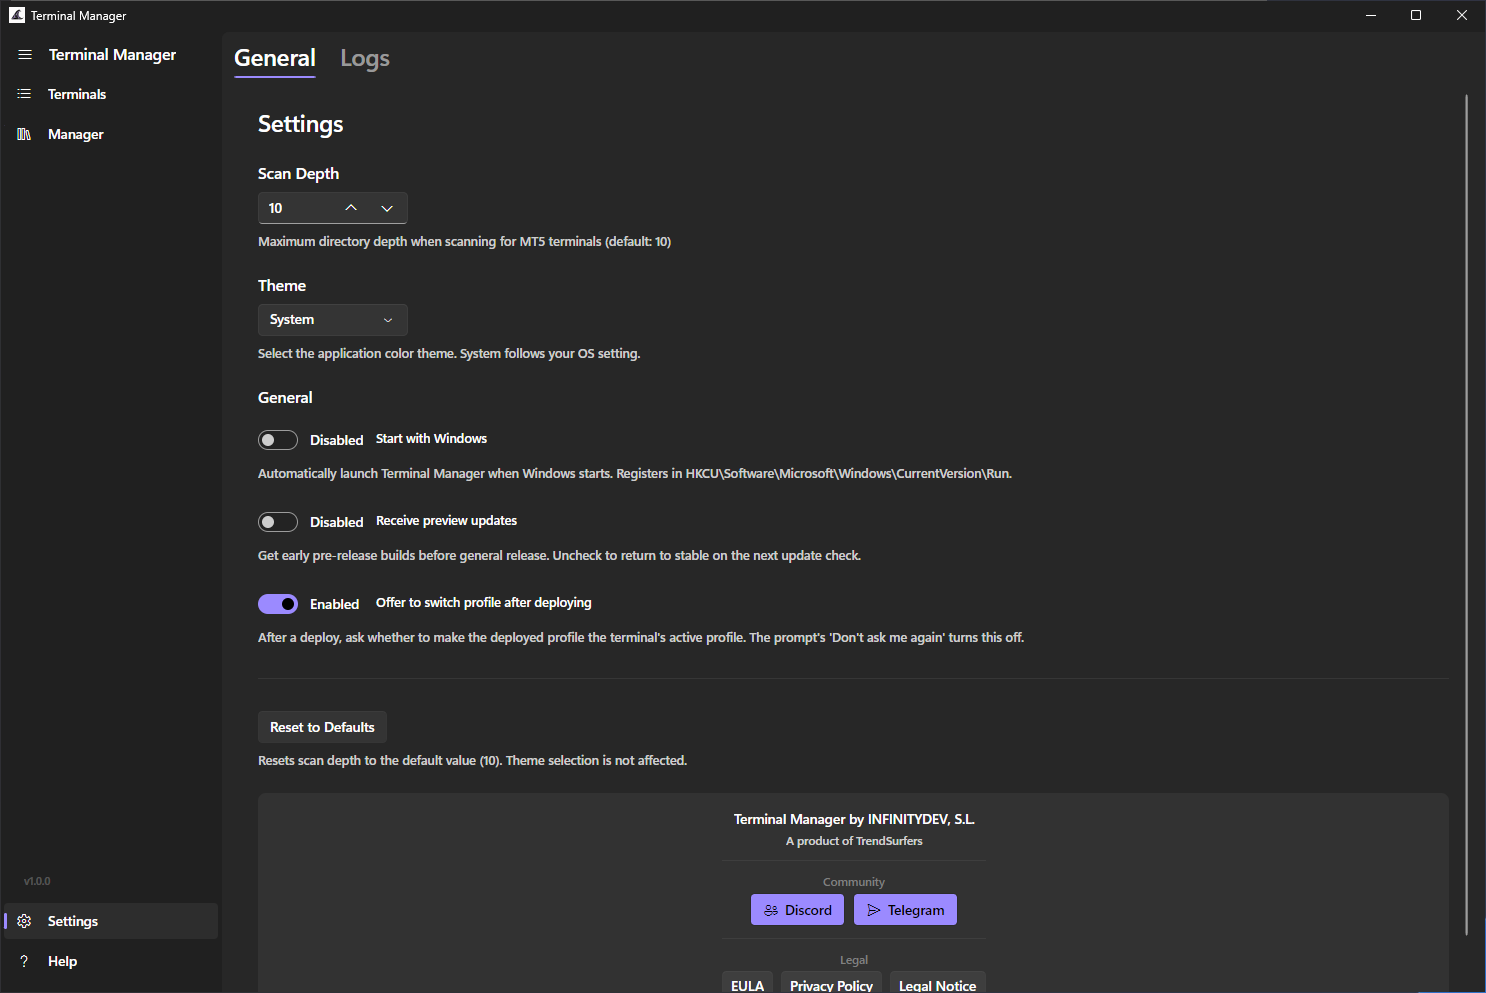
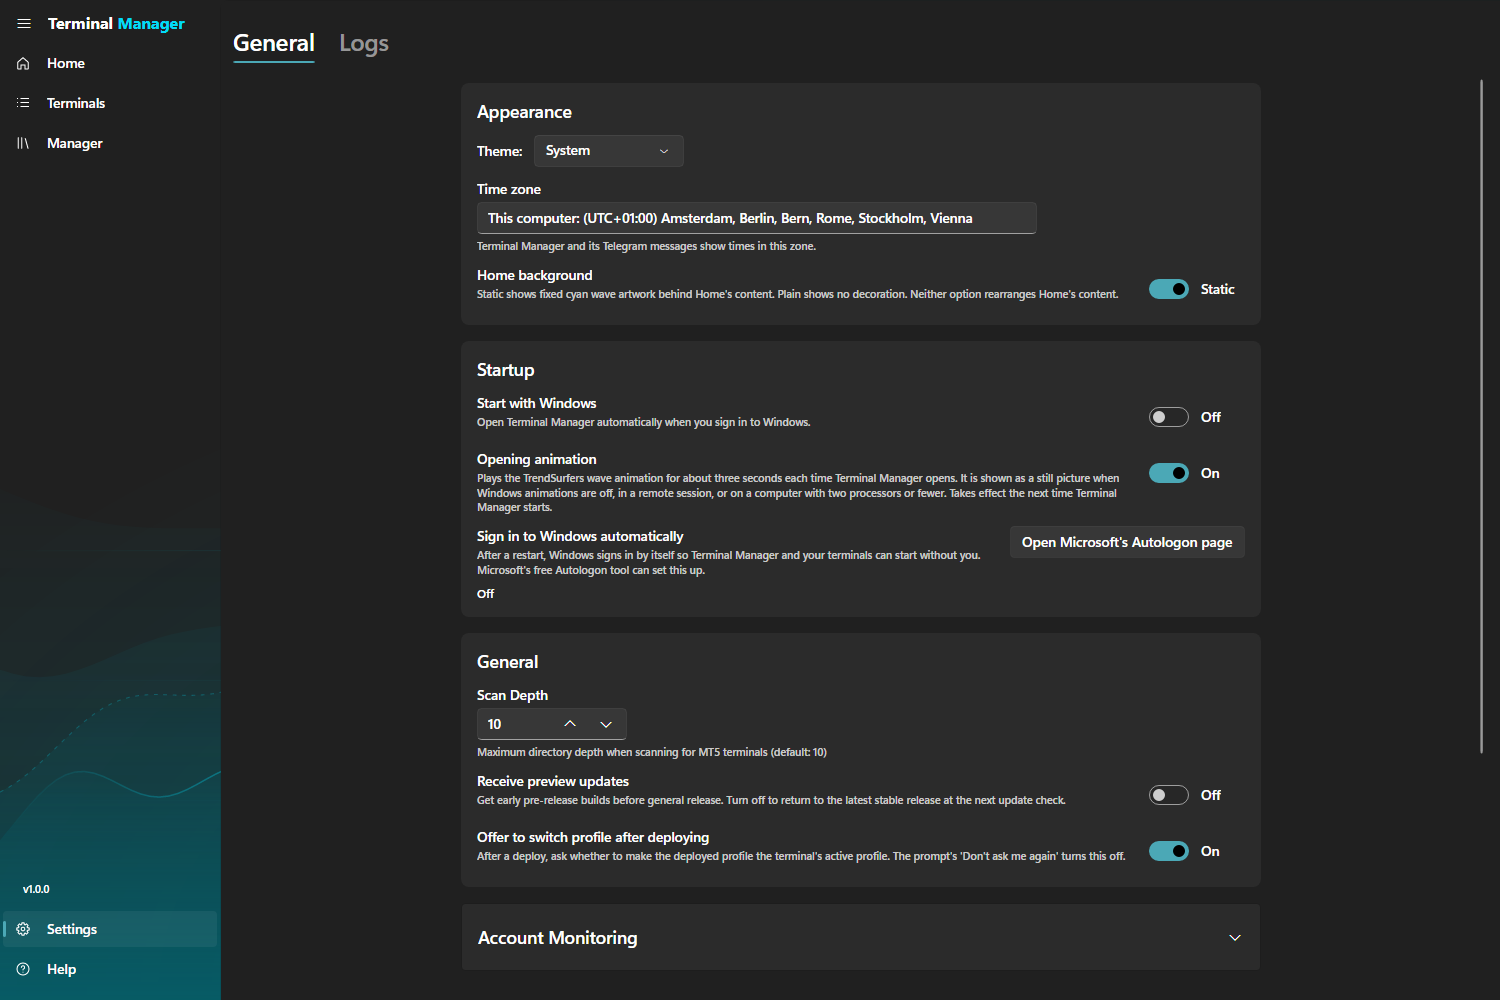
docs: refresh README and screenshots for Terminal Manager 1.0.0

diff --git a/README.md b/README.md
@@ -1,129 +1,120 @@
-# TrendSurfers Terminal Manager
+# **Terminal Manager**
 
-> A free Windows desktop app for managing your MetaTrader 5 terminals — find every terminal, turn your Expert Advisor `.set` files into ready-to-load chart profiles, and keep a full history of every deployment.
+Keep all your MetaTrader 5 terminals in one place. See which ones are running and where trading is enabled, and turn your Expert Advisor `.set` files into chart profiles that are ready to load.
 
-**Website:** [trendsurfers.io](https://trendsurfers.io/)
+[**Download the latest version**](https://github.com/trendsurfers-software/terminal-manager/releases/latest) · [trendsurfers.io](https://trendsurfers.io/)
 
----
-
-## What Is It?
-
-**TrendSurfers Terminal Manager** is a companion app for MetaTrader 5 traders who run one or more terminals. Instead of clicking through each MT5 install by hand, Terminal Manager gives you a single dashboard to find and manage your terminals, import folders of Expert Advisor `.set` files, and deploy them as ready-to-load chart profiles — with a full record of what was deployed, where, and when.
-
-Terminal Manager is **completely free** to use.
+<p align="center">
+  <img src="pictures/home.png" alt="The Home page of Terminal Manager showing five terminals, which are running, where trading is enabled, deployed strategies and storage" width="860"/>
+</p>
 
 ---
+
+## What it is
+
+**Terminal Manager** is a free Windows app for traders who run one or more MetaTrader 5 terminals. It finds the terminals on your computer, shows how each one is doing, and helps you put Expert Advisor settings onto your charts without clicking through every terminal by hand. It also keeps a record of what was deployed, where and when.
+
+Terminal Manager is free to use. Features that are free today may become paid in a future version; a feature that is free in the version you have installed stays free in that version.
+
+## What you can do
+
+- **Find every terminal.** Scan your computer for MetaTrader 5 installations, portable and standard, and add them to one list.
+- **See the whole picture on Home.** How many terminals are running, where trading is enabled, which ones need attention, how many strategies are deployed and how full your drives are. Search by terminal, broker, profile or tag. Trading status and account checks need **Monitor account balances** turned on in Settings.
+- **Tag your terminals.** Mark them "prop", "demo" or "VPS 2" and filter by tag.
+- **Start terminals automatically.** Switch on Autostart for the terminals you want. Terminal Manager opens them when it starts and tells you if one has stopped.
+- **Check the account.** Set the account a terminal should be using, and Terminal Manager tells you if it ever changes.
+- **Go from `.set` files to charts.** Add your `.set` files, pick the Expert Advisor, symbol and timeframe for each one (or set them for all files at once), and deploy them as a chart profile.
+- **Deploy with safety checks.** A deployment stops when a symbol does not exist at the terminal's broker, and you are warned about clashing magic numbers and before strategies are written to a live account. If a deployment cannot be finished, your profile is put back as it was.
+- **Back up and restore.** Every deployment keeps a backup of the whole profile, and you can restore one whenever you need to.
+- **Keep a history.** A record of every deployment: terminal, profile, Expert Advisor, symbol, timeframe and the `.set` file it came from.
+- **Light and dark themes**, your own time zone for every time shown, and an optional start with Windows.
 
 ## Screenshots
 
 <p align="center">
-  <img src="pictures/terminals.png" alt="Terminals — find and manage every MetaTrader 5 install" width="720"/>
-  <br/><em>Terminals — find and manage every MetaTrader 5 install</em>
+  <img src="pictures/terminals.png" alt="Allowed Terminals list with status, tags, broker and autostart for each terminal" width="860"/>
+  <br/><em>Terminals: every terminal in one list, with status, broker, tags and Autostart</em>
 </p>
 
 <p align="center">
-  <img src="pictures/manager-add.png" alt="Manager — import .set files and assign EA, symbol, and timeframe" width="720"/>
-  <br/><em>Manager — import .set files and assign EA, symbol, and timeframe with searchable dropdowns</em>
+  <img src="pictures/workspace.png" alt="Terminal workspace showing the account status and the charts of the Default profile" width="860"/>
+  <br/><em>Terminal workspace: account status and the charts on a profile</em>
 </p>
 
 <p align="center">
-  <img src="pictures/manager-deploy.png" alt="Manager — deploy as a ready-to-load chart profile" width="720"/>
-  <br/><em>Manager — deploy as a ready-to-load chart profile in a few clicks</em>
+  <img src="pictures/add-strategies.png" alt="Add strategies page with three .set files and their Expert Advisor, symbol and timeframe" width="860"/>
+  <br/><em>Add strategies: choose the Expert Advisor, symbol and timeframe for each .set file, then deploy</em>
 </p>
 
 <p align="center">
-  <img src="pictures/deployment-history.png" alt="Deployment History — a full record of every deployment" width="720"/>
-  <br/><em>Deployment History — a full, traceable record of what was deployed, where, and when</em>
+  <img src="pictures/history.png" alt="Deployment history listing time, terminal, profile, Expert Advisor, symbol and timeframe" width="860"/>
+  <br/><em>History: what was deployed, where and when</em>
 </p>
 
 <p align="center">
-  <img src="pictures/settings.png" alt="Settings — scan depth, theme, startup, and preview updates" width="720"/>
-  <br/><em>Settings — scan depth, theme, start-with-Windows, and the preview-update channel</em>
+  <img src="pictures/home-light.png" alt="The Home page in the light theme" width="860"/>
+  <br/><em>Home in the light theme</em>
 </p>
 
----
+<p align="center">
+  <img src="pictures/settings.png" alt="Settings page with appearance, startup and general options" width="860"/>
+  <br/><em>Settings: theme, time zone, startup and updates</em>
+</p>
 
-## Core Features
-
-### 🖥 Terminal Management
-- Scan your machine for MetaTrader 5 installations — portable and standard installs alike.
-- See every terminal in one dashboard and add the ones you want to manage.
-
-### 📥 Import, Assign & Deploy
-- Import your Expert Advisor `.set` files.
-- Pick the EA, symbol, and timeframe with smart, searchable dropdowns — bulk-assign across multiple files at once.
-- Deploy the result as a ready-to-load chart profile to any managed terminal, in a few clicks.
-
-### 🧾 Deployment History
-- A full, traceable record of every deployment.
-- See terminal, profile, EA, symbol, timeframe, and the exact `.set` file it came from — for every deployment, every time.
-
-### 🔄 Automatic Updates
-- Terminal Manager keeps itself current in the background — no manual downloads.
-- Enable the preview channel in Settings for early access to new features before general release.
+The screenshots show sample terminals and demo accounts.
 
 ---
 
-## System Requirements
+## Download and install
 
-- **Operating System**: Windows 10 or Windows 11 (64-bit)
-- **MetaTrader 5**: One or more installed terminals
+1. Download the installer, `TS.TerminalManager-win-Setup.exe`, from the [latest release](https://github.com/trendsurfers-software/terminal-manager/releases/latest). A portable `.zip` is there too.
+2. Run the installer and open **Terminal Manager**.
+3. Scan for your terminals and add the ones you want to manage.
 
----
+Terminal Manager checks for a new version each time it starts and shows a banner. You choose when to download and install it. To try preview versions before they are released to everyone, turn on **Receive preview updates** in Settings.
 
-## Installation
+## System requirements
 
-1. Download the latest `TS.TerminalManager-win-Setup.exe` from [Releases](../../releases).
-2. Run the installer. Terminal Manager installs per-user and updates itself automatically.
-3. Launch **Terminal Manager** and add your first MetaTrader 5 terminal.
+- Windows 10 (version 1809 or later) or Windows 11, 64-bit
+- MetaTrader 5
 
-### Preview builds
+## Licence and privacy
 
-Want early access to new features? In **Settings → Receive preview updates**, enable preview updates to receive pre-release builds before general availability. Uncheck it at any time to return to the stable channel on the next update check.
+By installing or using Terminal Manager you agree to the End User License Agreement. Terminal Manager asks you to accept it the first time it starts.
 
----
+| Document | Link |
+|----------|------|
+| End User License Agreement | [trendsurfers.io/eula-mtm/](https://trendsurfers.io/eula-mtm/) |
+| Privacy Policy | [trendsurfers.io/privacy/](https://trendsurfers.io/privacy/) |
+| Legal Notice | [trendsurfers.io/legal/](https://trendsurfers.io/legal/) |
+| Trademark Notices | [trendsurfers.io/legal/#trademarks](https://trendsurfers.io/legal/#trademarks) |
 
-## Contact & Community
+## Support and community
 
 | Channel | Link |
 |---------|------|
-| Website | [trendsurfers.io](https://trendsurfers.io/) |
+| Questions and support | [hello@trendsurfers.io](mailto:hello@trendsurfers.io) |
+| Bugs and requests | [GitHub issues](https://github.com/trendsurfers-software/terminal-manager/issues) |
 | Discord | [discord.gg/3HnQDZ5hT5](https://discord.gg/3HnQDZ5hT5) |
 | Telegram | [Community group](https://t.me/+GyaH3OhxW802N2I0) |
-| General / Support | [hello@trendsurfers.io](mailto:hello@trendsurfers.io) |
 | Legal | [legal@trendsurfers.io](mailto:legal@trendsurfers.io) |
 
----
+## What is new
 
-## License
-
-Terminal Manager is free to use. By downloading, installing, or using this software you agree to the [End User License Agreement](https://trendsurfers.io/eula-mtm/). If you do not accept the EULA, do not install or use the software.
-
-| Legal document | Link |
-|---------------|------|
-| End User License Agreement (EULA) | [trendsurfers.io/eula-mtm/](https://trendsurfers.io/eula-mtm/) |
-| Privacy Policy | [trendsurfers.io/privacy/](https://trendsurfers.io/privacy/) |
-| Legal Notice (Aviso Legal) | [trendsurfers.io/legal/](https://trendsurfers.io/legal/) |
-| Trademark Notices | [trendsurfers.io/legal/#trademarks](https://trendsurfers.io/legal/#trademarks) |
+See [CHANGELOG.md](CHANGELOG.md) and the [releases](https://github.com/trendsurfers-software/terminal-manager/releases).
 
 ---
 
-## Legal Notices
+## Legal notices
 
-### Trademark Disclaimers
+**Terminal Manager** is an independent product developed by **INFINITYDEV, S.L.** (NIF B-44974798, Plaça Jardí Enric Morera 2, Bajos, 17600 Figueres, Girona, Spain).
 
-**TrendSurfers Terminal Manager** is an independent product developed by **INFINITYDEV, S.L.** (NIF B-44974798, Plaça Jardí Enric Morera 2, Bajos, 17600 Figueres, Girona, Spain).
-
-INFINITYDEV, S.L. is **not** affiliated with, endorsed by, sponsored by, certified by, or otherwise connected to MetaQuotes Ltd or any of its affiliated entities. This product is not approved by MetaQuotes, and MetaQuotes provides no warranty, support, or representation regarding it.
+INFINITYDEV, S.L. is not affiliated with, endorsed by, sponsored by, certified by, or otherwise connected to MetaQuotes Ltd or any of its affiliated entities. This product is not approved by MetaQuotes, and MetaQuotes provides no warranty, support, or representation regarding it.
 
 "MetaTrader", "MetaTrader 4", "MetaTrader 5", "MT4", "MT5", "MQL4", and "MQL5" are registered trademarks of MetaQuotes Ltd and/or its affiliated entities. All other product names, trademarks, service marks, and registered trademarks referenced in this software or its accompanying materials are the property of their respective owners and are used solely for identification and descriptive purposes. Such use does not imply endorsement, sponsorship, or any affiliation between INFINITYDEV, S.L. and the trademark holders.
 
-### Trading Risk Disclaimer
+**Trading risk.** Trading foreign exchange and derivatives carries a high level of risk and may not be suitable for all investors. Past performance is not indicative of future results. Terminal Manager is a terminal-management tool. It deploys Expert Advisor configurations to your own MetaTrader 5 terminals and can read basic account information from them when account monitoring is on. It does not place trades, and it does not provide financial advice or trading signals.
 
-Trading foreign exchange and derivatives carries a high level of risk and may not be suitable for all investors. Past performance is not indicative of future results. Terminal Manager is a terminal-management tool — it deploys Expert Advisor configurations to your own MetaTrader 5 terminals but does not place trades, connect to live broker accounts, or provide financial advice or trading signals.
+**Platform dependency.** Terminal Manager operates on your own MetaTrader 5 installations and depends on specific MetaTrader 5 capabilities for its operation, including terminal detection, chart-profile formats, and `.set` file formats. MetaQuotes Ltd is an independent third party over which INFINITYDEV, S.L. has no control. MetaQuotes may, at any time, modify, restrict, deprecate, or remove any MetaTrader 5 capability. Such changes may cause parts or all of this software to stop functioning. This does not constitute a defect in the software, and INFINITYDEV, S.L. assumes no responsibility for changes made by MetaQuotes or any other third-party platform.
 
-### Platform Dependency Notice
-
-Terminal Manager operates on your own MetaTrader 5 installations and depends on specific MT5 capabilities for its operation (including terminal detection, chart-profile formats, and `.set` file formats). MetaQuotes Ltd is an independent third party over which INFINITYDEV, S.L. has no control. MetaQuotes may, at any time, modify, restrict, deprecate, or remove any MT5 capability. Such changes may cause parts or all of this software to stop functioning. This does not constitute a defect in the software, and INFINITYDEV, S.L. assumes no responsibility for changes made by MetaQuotes or any other third-party platform.
-
-&copy; 2024–2026 INFINITYDEV, S.L. All rights reserved.
+&copy; 2024-2026 INFINITYDEV, S.L. All rights reserved.
